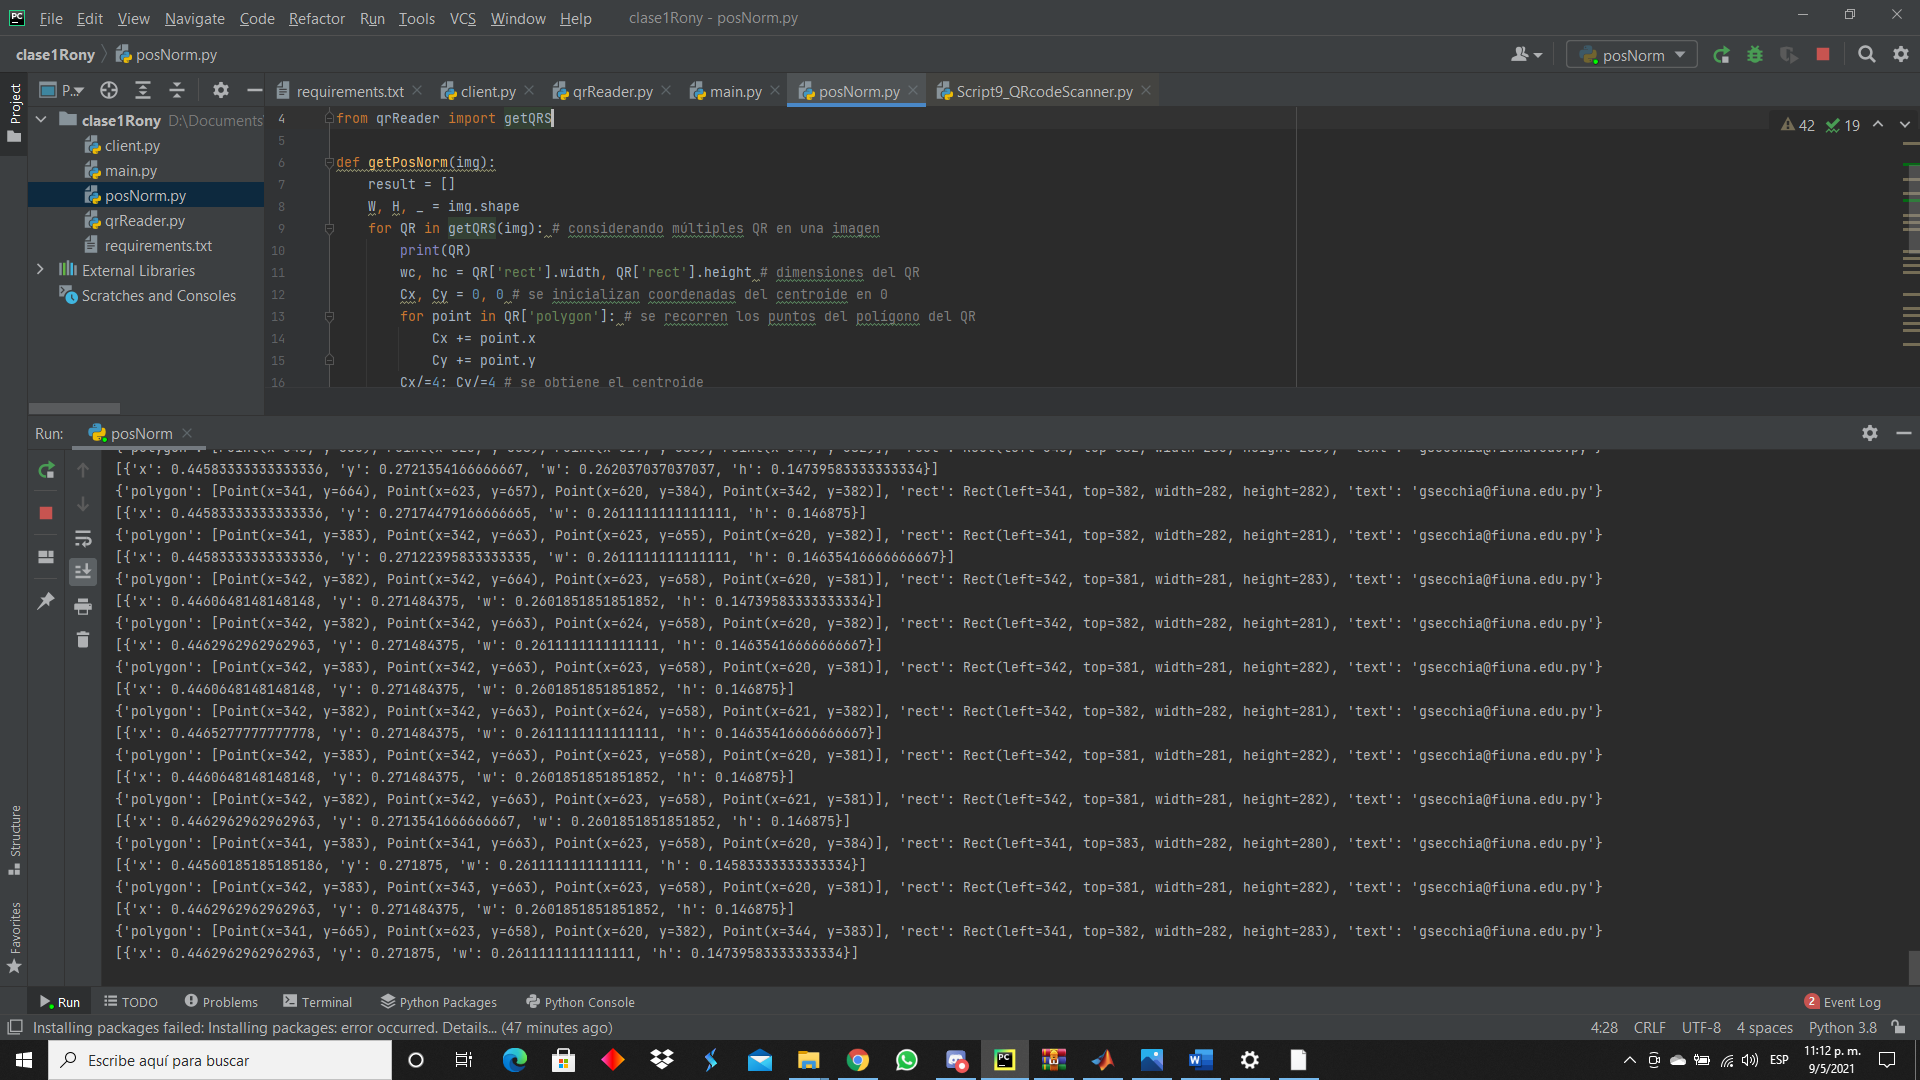
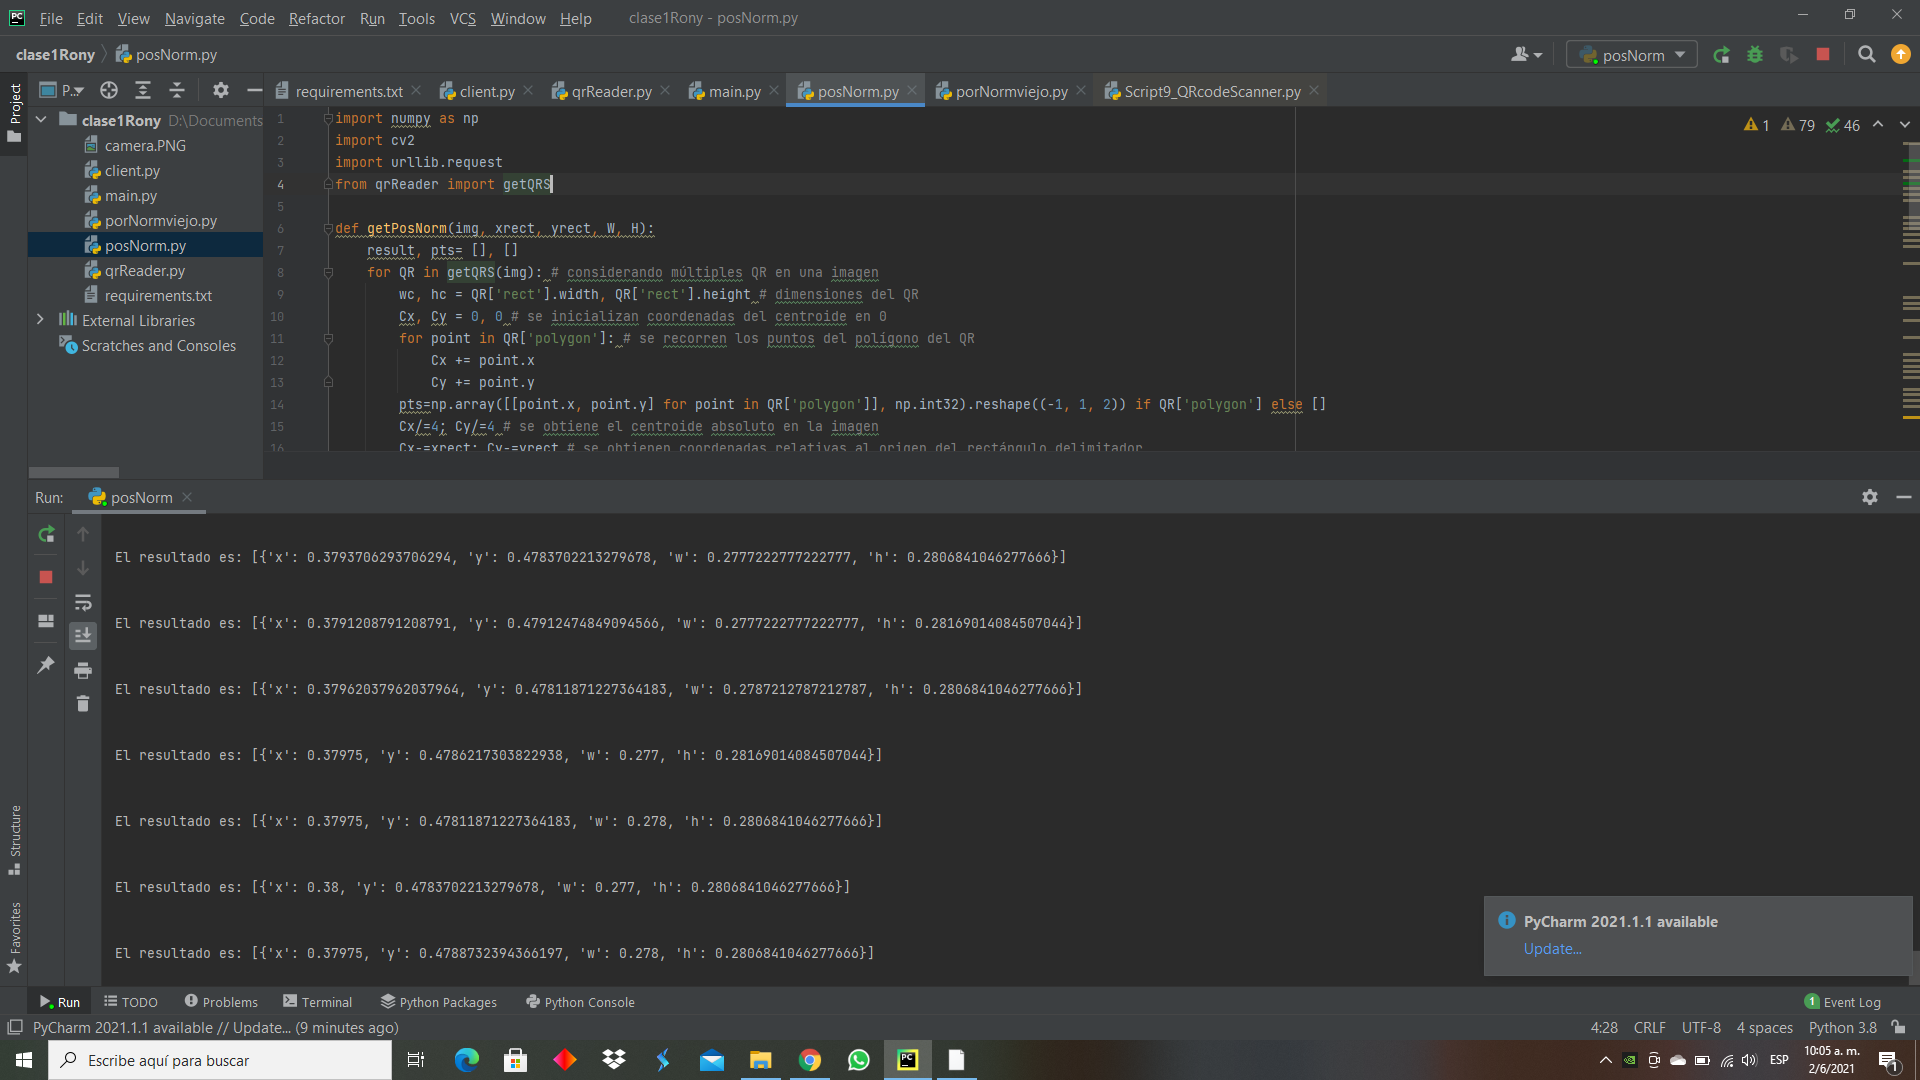
Add files via upload

diff --git a/Simulator/posNorm.py b/Simulator/posNorm.py
@@ -3,27 +3,47 @@ import cv2
 import urllib.request
 from qrReader import getQRS
 
-def getPosNorm(img):
-    result = []
-    W, H, _ = img.shape
+def getPosNorm(img, xrect, yrect, W, H):
+    result, pts= [], []
     for QR in getQRS(img): # considerando múltiples QR en una imagen
-        print(QR)
         wc, hc = QR['rect'].width, QR['rect'].height # dimensiones del QR
         Cx, Cy = 0, 0 # se inicializan coordenadas del centroide en 0
         for point in QR['polygon']: # se recorren los puntos del polígono del QR
             Cx += point.x
             Cy += point.y
-        Cx/=4; Cy/=4 # se obtiene el centroide
+        pts=np.array([[point.x, point.y] for point in QR['polygon']], np.int32).reshape((-1, 1, 2)) if QR['polygon'] else []
+        Cx/=4; Cy/=4 # se obtiene el centroide absoluto en la imagen
+        Cx-=xrect; Cy-=yrect # se obtienen coordenadas relativas al origen del rectángulo delimitador
         [xn,yn]=[Cx/W,Cy/H] # posición normalizada
         [wn,hn]=[wc/W,hc/H] # tamaño normalizado
         result.append({"x":xn,"y":yn,"w":wn,"h":hn}) # agregando el resultado a la lista
-    return result
+    return result, pts
 
+def getContour(img):
+    # convertir a escala de grises
+    img_gray = cv2.cvtColor(img, cv2.COLOR_BGR2GRAY)
+    # thresholding binario
+    ret, thresh = cv2.threshold(img_gray, 150, 255, cv2.THRESH_BINARY)
+    contours, hierarchy = cv2.findContours(image=thresh, mode=cv2.RETR_EXTERNAL, method=cv2.CHAIN_APPROX_SIMPLE)
+    image_copy = img.copy() # para dibujar sobre la imagen original
+    c = max(contours, key = cv2.contourArea) # para obtener el contorno más grande
+    x,y,w,h = cv2.boundingRect(c) # se aproxima a un rectángulo
+    # se dibuja en verde el rect. aproximación, ya que la cámara apunta perpendicular al suelo
+    cv2.rectangle(image_copy,(x,y),(x+w,y+h),(0,255,0),2)
+    return image_copy, x, y, w, h
+
+last_known_position=np.array([], np.int32)
 while True:
-    url = "http://192.168.0.7:8080/shot.jpg"
+    url = "http://192.168.0.5:8080/shot.jpg"
     imgResp=urllib.request.urlopen(url)
     imgNp=np.array(bytearray(imgResp.read()),dtype=np.uint8)
     img=cv2.imdecode(imgNp,-1)
+    img, x, y, w, h= getContour(img)
+    result, pts= getPosNorm(img, x, y, w, h)
+    print("\n\nEl resultado es:", result)
+    if len(pts): last_known_position = pts
+    cv2.polylines(img, last_known_position, True, (255, 0, 0), 2) # quiero dibujar el QR pero aún no me sale
     cv2.imshow('test',img)
-    print(getPosNorm(img))
-    if ord('q')==cv2.waitKey(10): exit(0)
+    if ord('q')==cv2.waitKey(10):
+        break
+        exit(0)
